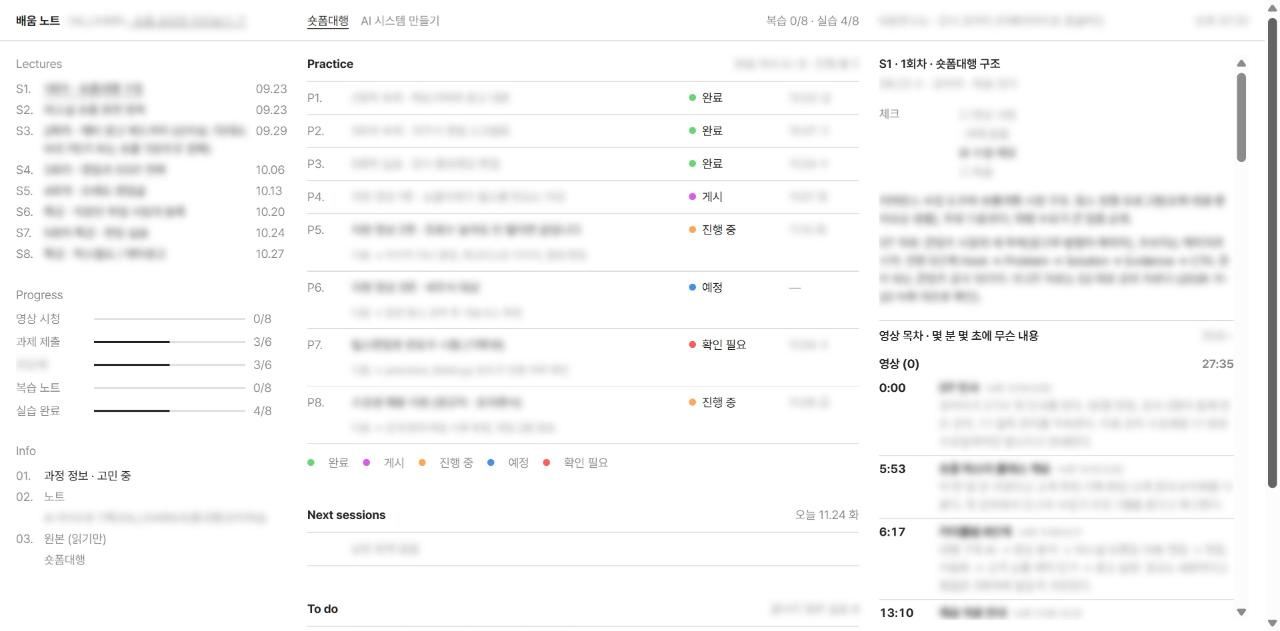
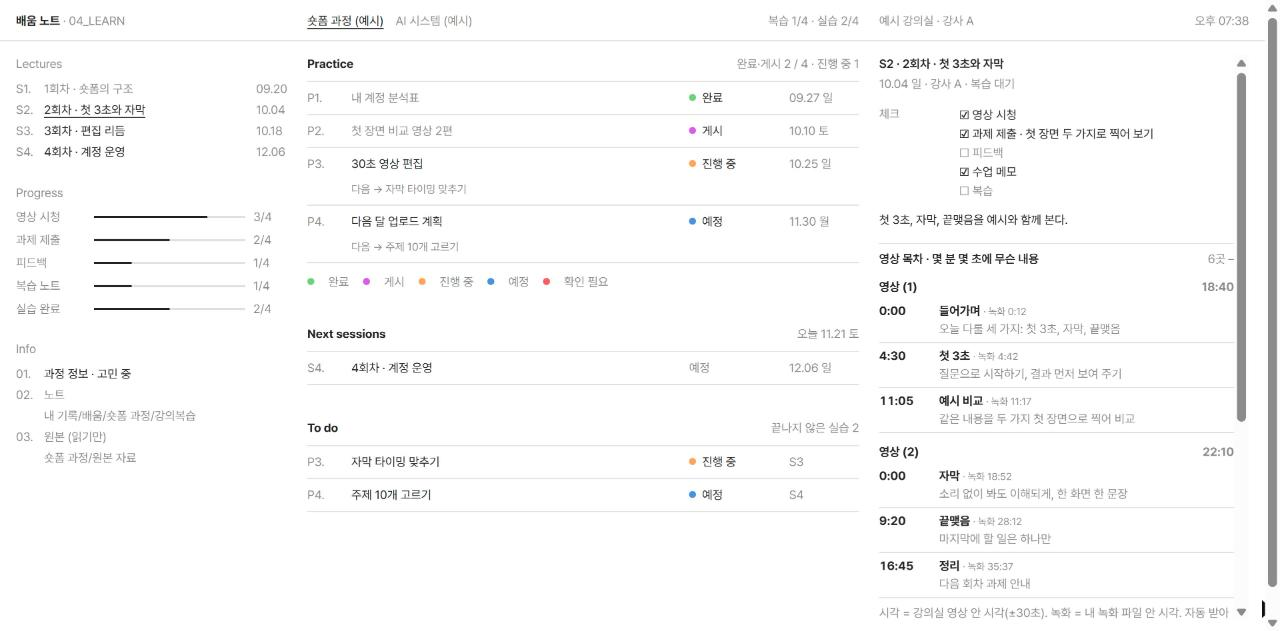
발표 페이지: 실제 화면 캡처에 번호를 달아 나눈 칸과 쓰는 법 설명
- 업무 상황판(글자만 예시로 바꿈)·배움 노트(예시 과정)·flyb 관리 화면·사이트 바탕화면 캡처
- 칸마다 번호 표시 + 설명, '이렇게 써요' 한 줄
- 흐림 처리 캡처와 사이트 INVENTORY 캡처는 뺌

diff --git a/ai-system.html b/ai-system.html
@@ -79,6 +79,22 @@
 .show.wide{grid-template-columns:1fr}
 .show .pair{display:grid;grid-template-columns:repeat(2,minmax(0,1fr));gap:12px}
 @media (max-width:820px){.show{grid-template-columns:1fr}.show .pair{grid-template-columns:1fr}}
+.show2{background:var(--paper);border:1px solid var(--line);border-radius:4px;padding:18px;margin-bottom:22px}
+.show2 .head2 .who{font-family:var(--sans);font-size:11.5px;color:var(--wine);letter-spacing:.04em;margin:0}
+.show2 .head2 h3{margin:4px 0 6px;font-family:var(--serif);font-weight:400;font-size:21px}
+.show2 .head2 p{margin:0 0 12px;font-size:14.5px;word-break:keep-all;max-width:70ch}
+.anno{position:relative;margin:0;border:1px solid var(--line);border-radius:3px;overflow:hidden;background:#fff}
+.anno img{width:100%;display:block}
+.anno .mk{position:absolute;border:2px solid var(--wine);border-radius:4px;background:rgba(140,74,85,.05);pointer-events:none}
+.anno .mk i{position:absolute;left:-2px;top:-2px;min-width:22px;height:22px;padding:0 5px;border-radius:4px 0 6px 0;background:var(--wine);color:#fff;font:600 13px/22px var(--sans);text-align:center;font-style:normal}
+.legend2{list-style:none;margin:14px 0 6px;padding:0;display:grid;grid-template-columns:repeat(2,minmax(0,1fr));gap:8px 20px}
+.legend2 li{display:flex;gap:10px;align-items:flex-start;font-size:14px;word-break:keep-all}
+.legend2 i{flex:none;min-width:22px;height:22px;border-radius:4px;background:var(--wine);color:#fff;font:600 13px/22px var(--sans);text-align:center;font-style:normal}
+.legend2 b{font-weight:600}
+.show2 .use{margin:10px 0 0;font-size:14px;border-top:1px dashed var(--line);padding-top:10px;word-break:keep-all}
+.show2 .use b{color:var(--wine);margin-right:6px}
+.trio{display:grid;grid-template-columns:1fr 1fr .55fr;gap:10px;align-items:start}
+@media (max-width:820px){.legend2{grid-template-columns:1fr}.trio{grid-template-columns:1fr}.anno.phone{max-width:320px}}
 </style>
 </head>
 <body>
@@ -142,56 +158,27 @@
 
   <section class="block" id="made">
     <h2>만든 도구</h2>
-    <h3 class="sub2">나만 보는 도구 <span>일과 개인 기록이 들어 있는 화면이라 캡처로 보여 드려요. 이름·메일·금액·강의 내용은 흐리게 가렸어요.</span></h3>
+    <h3 class="sub2">나만 보는 도구 <span>실제 화면을 캡처했어요. 업무 상황판은 회사 메일과 금액이 들어 있어 글자만 예시로 바꿨고, 배움 노트는 유료 강의 내용 대신 예시 과정을 넣은 같은 화면이에요.</span></h3>
 
-    <article class="show">
-      <figure><img src="img/ai/dashboard.jpg" alt="업무 상황판 화면. 왼쪽에 회신할 메일 목록, 가운데에 한 달 달력, 오른쪽에 오늘 꼭 볼 것과 지금 할 일 (내용은 가림)"></figure>
-      <div class="how-to">
-        <p class="who">일 · 매일 아침</p>
-        <h3>업무 상황판</h3>
-        <p>아침에 이 화면 하나만 열어요. 밤사이 온 메일을 AI가 읽고 정리한 브리핑이 여기에 들어와요.</p>
-        <ol>
-          <li><b>왼쪽</b> · 답장해야 할 메일을 급한 순서로, 그 아래 결재 대기 목록</li>
-          <li><b>가운데</b> · 한 달 달력. 날마다 브리핑, 일정, 할 일이 쌓여서 지난 일을 다시 찾기 쉬워요</li>
-          <li><b>오른쪽</b> · 오늘 꼭 볼 것과 지금 할 일. AI가 근거 메일과 함께 정리해 줘요</li>
-        </ol>
-        <p class="note">할 일을 AI에게 넘길 때는 여기서 바로 지시하고, 보내기·결재처럼 되돌리기 어려운 일은 내가 확인한 뒤에만 해요.</p>
-      </div>
+    <article class="show2">
+      <div class="head2"><p class="who">일 · 매일 아침</p><h3>업무 상황판</h3><p>아침에 이 화면 하나만 열어요. 밤사이 온 메일을 엘이 읽고 정리한 브리핑이 들어와요. 화면은 세 칸으로 나눴어요.</p></div>
+      <figure class="anno"><img src="img/ai/dashboard.jpg" alt="업무 상황판 전체 화면"><span class="mk" style="left:1%;top:8%;width:21%;height:74%"><i>1</i></span><span class="mk" style="left:1%;top:82%;width:21%;height:17%"><i>2</i></span><span class="mk" style="left:23.5%;top:8%;width:46%;height:92%"><i>3</i></span><span class="mk" style="left:69.8%;top:8%;width:27%;height:13%"><i>4</i></span><span class="mk" style="left:69.8%;top:23%;width:27%;height:77%"><i>5</i></span><span class="mk" style="left:60.5%;top:0.5%;width:9%;height:6%"><i>6</i></span></figure>
+      <ol class="legend2"><li><i>1</i><div><b>회신할 메일 · 급한 순</b> 밤사이 온 메일 중 내가 답해야 하는 것만, 급한 순서로. 처리하면 ✓를 눌러 지워요.</div></li><li><i>2</i><div><b>결재 대기</b> ERP에 올라온 지출 결재 중 내가 확인할 것. 오래된 건 빨간 글씨로 알려 줘요.</div></li><li><i>3</i><div><b>한 달 달력</b> 날마다 메일 브리핑, 일정, 할 일이 쌓여요. 지난 일을 찾을 때 날짜만 누르면 돼요.</div></li><li><i>4</i><div><b>엘의 제안</b> 메일을 읽고 엘이 정리한 제안이에요. 실제로 할지는 내가 정해요.</div></li><li><i>5</i><div><b>오늘 꼭 볼 것 · 지금 할 일 · 이번 주 할 일</b> 급한 순서로 묶어 보여 주고, 근거가 된 메일 원문으로 바로 갈 수 있어요.</div></li><li><i>6</i><div><b>월간 · 주간 · 목록</b> 같은 내용을 달력, 한 주, 목록으로 바꿔 봐요.</div></li></ol>
+      <p class="use"><b>이렇게 써요</b> 아침에 ①에서 답할 메일을 고르고 → ⑤에서 오늘 할 일을 정하고 → 엘에게 맡길 일은 여기서 바로 지시해요. 보내기·결재처럼 되돌리기 어려운 일은 내가 확인한 뒤에만 해요.</p>
     </article>
 
-    <article class="show">
-      <figure><img src="img/ai/baeum-note.jpg" alt="배움 노트 화면. 왼쪽에 강의 회차와 진행률, 가운데에 실습 상태, 오른쪽에 영상 몇 분 몇 초 목차 (강의 내용은 가림)"></figure>
-      <div class="how-to">
-        <p class="who">배움 · 복습할 때</p>
-        <h3>배움 노트</h3>
-        <p>듣고 있는 두 강의 과정을 한 화면에서 봐요. 강의 녹화를 받아쓰면 AI가 영상마다 시간 목차를 만들어 줘요.</p>
-        <ol>
-          <li><b>왼쪽</b> · 강의 회차와 진행률(영상 시청, 과제 제출, 실습 완료)</li>
-          <li><b>가운데</b> · 실습과 과제가 지금 어디까지 왔는지 (완료 · 게시 · 진행 중 · 확인 필요)</li>
-          <li><b>오른쪽</b> · 회차를 누르면 영상 몇 분 몇 초에 무슨 내용이 나오는지와 그 회차 자료</li>
-        </ol>
-        <p class="note">복습할 땐 영상을 처음부터 다시 보지 않고, 목차에서 필요한 시각만 골라 봐요. 같은 강의를 듣는 분들과는 목차만 따로 나눠요.</p>
-      </div>
+    <article class="show2">
+      <div class="head2"><p class="who">배움 · 복습할 때</p><h3>배움 노트</h3><p>듣고 있는 두 강의 과정을 한 화면에 모았어요. 왼쪽은 전체 흐름, 가운데는 내가 할 일, 오른쪽은 고른 회차의 자세한 내용이에요.</p></div>
+      <figure class="anno"><img src="img/ai/baeum-note.jpg" alt="배움 노트 전체 화면"><span class="mk" style="left:23.5%;top:0.5%;width:14%;height:6%"><i>1</i></span><span class="mk" style="left:0.5%;top:8%;width:23%;height:19%"><i>2</i></span><span class="mk" style="left:0.5%;top:28%;width:23%;height:23%"><i>3</i></span><span class="mk" style="left:23.5%;top:8%;width:44%;height:38%"><i>4</i></span><span class="mk" style="left:23.5%;top:50%;width:44%;height:32%"><i>5</i></span><span class="mk" style="left:68%;top:8%;width:30%;height:30%"><i>6</i></span><span class="mk" style="left:68%;top:40%;width:30%;height:59%"><i>7</i></span></figure>
+      <ol class="legend2"><li><i>1</i><div><b>과정 탭</b> 듣고 있는 두 과정(숏폼대행, AI 시스템 만들기)을 오가요.</div></li><li><i>2</i><div><b>Lectures · 회차</b> 회차를 누르면 오른쪽에 그 회차의 모든 것이 열려요.</div></li><li><i>3</i><div><b>Progress · 진행률</b> 영상 시청, 과제 제출, 피드백, 복습, 실습을 한눈에. 빈 막대가 다음에 할 일이에요.</div></li><li><i>4</i><div><b>Practice · 실습과 과제</b> 완료 · 게시 · 진행 중 · 예정 · 확인 필요로 상태를 표시하고, 다음에 할 일을 한 줄로 붙여 둬요.</div></li><li><i>5</i><div><b>Next sessions · To do</b> 다가오는 회차와 끝나지 않은 실습만 모아요.</div></li><li><i>6</i><div><b>회차 체크</b> 영상 시청, 과제, 수업 메모, 복습을 체크하고 그 회차의 핵심을 한 줄로.</div></li><li><i>7</i><div><b>영상 목차</b> 강의 녹화를 받아쓰면 엘이 영상마다 몇 분 몇 초에 무슨 내용인지 목차를 만들어요. 복습할 땐 필요한 시각만 골라 봐요.</div></li></ol>
+      <p class="use"><b>이렇게 써요</b> 강의를 녹화해 받아쓰면 → 엘이 ⑦ 영상 목차를 만들고 → 복습할 땐 ②에서 회차를 골라 필요한 시각만 봐요. 과제는 ④에서 상태를 바꿔 가며 끝까지 챙겨요.</p>
     </article>
 
-    <article class="show wide">
-      <div class="how-to">
-        <p class="who">기록 · 다녀오고 나서</p>
-        <h3>flyb 관리 화면 → 이 사이트</h3>
-        <p>행사, 와인, 사람, 공간을 핸드폰으로 넣으면, 공개해도 되는 것만 골라 이 사이트의 INVENTORY에 나타나요. 나중에 책으로 엮을 재료가 되도록 그때 고른 이유와 남은 기준까지 적어요.</p>
-        <ol>
-          <li><b>넣기</b> · 사진 여러 장, 날짜, 장소, 한 줄. 지도를 누르거나 구글 지도 좌표를 붙여 다녀온 곳을 찍어요</li>
-          <li><b>채우기</b> · AI가 내 일기와 자료에서 그날의 경험을 찾고, 행사·인물 정보는 출처와 함께 덧붙여요</li>
-          <li><b>확인하기</b> · 회사 정보 없음, 사람 허락, 사진 공개 가능 세 가지를 체크해야 '사이트에 보이기'가 켜져요. 사진 속 위치 정보는 저장할 때 지워요</li>
-          <li><b>보여 주기</b> · 사이트에서는 와인 리스트처럼 읽고, 세계지도의 점을 눌러 기록을 펼쳐요</li>
-        </ol>
-      </div>
-      <div class="pair">
-        <figure><img src="img/ai/flyb-admin-1.jpg" alt="flyb 관리 화면. 왼쪽 기록 목록, 오른쪽 기록 입력 칸과 세계지도 핀"><figcaption>관리 화면 · 기록 목록과 지도 핀</figcaption></figure>
-        <figure><img src="img/ai/flyb-admin-2.jpg" alt="flyb 관리 화면의 사진 여러 장과 공개 전 확인 체크"><figcaption>관리 화면 · 사진 여러 장과 공개 전 확인</figcaption></figure>
-        <figure><img src="img/ai/flyb-site-1.jpg" alt="공개 사이트의 INVENTORY. 세계지도와 와인 리스트 모양의 기록"><figcaption>사이트 · 세계지도와 와인 리스트</figcaption></figure>
-        <figure><img src="img/ai/flyb-site-2.jpg" alt="공개 사이트에서 기록을 펼친 모습. 큰 사진과 작은 사진들, 설명"><figcaption>사이트 · 기록을 펼친 모습</figcaption></figure>
-      </div>
+    <article class="show2">
+      <div class="head2"><p class="who">기록 · 다녀오고 나서</p><h3>flyb 관리 화면 → 사이트 바탕화면</h3><p>행사, 와인, 사람, 공간을 핸드폰으로 넣으면, 공개해도 되는 것만 골라 이 사이트에 나타나요. 나중에 책으로 엮을 재료가 되도록 그때 고른 이유와 남은 기준까지 적어요.</p></div>
+      <div class="trio"><figure class="anno"><img src="img/ai/flyb-admin-1.jpg" alt="flyb 관리 화면: 기록 목록과 입력 칸, 세계지도 핀"><span class="mk" style="left:0.5%;top:9%;width:25.5%;height:82%"><i>1</i></span><span class="mk" style="left:27.5%;top:9%;width:57%;height:35%"><i>2</i></span><span class="mk" style="left:38.5%;top:45%;width:46%;height:53%"><i>3</i></span></figure><figure class="anno"><img src="img/ai/flyb-admin-2.jpg" alt="flyb 관리 화면: 사진 여러 장과 공개 전 확인"><span class="mk" style="left:38.5%;top:2%;width:38%;height:77%"><i>4</i></span><span class="mk" style="left:38.5%;top:87%;width:46%;height:13%"><i>5</i></span></figure><figure class="anno phone"><img src="img/ai/home.jpg" alt="flyb 사이트 바탕화면: 시계·메모 위젯, 앱 8개, 아래 독"><span class="mk" style="left:6%;top:8%;width:89%;height:26%"><i>6</i></span><span class="mk" style="left:6%;top:36%;width:89%;height:33%"><i>7</i></span><span class="mk" style="left:6%;top:81%;width:89%;height:16%"><i>8</i></span></figure></div>
+      <ol class="legend2"><li><i>1</i><div><b>기록 목록</b> 번호(INV-001…), 종류, 날짜와 공개 여부. 누르면 오른쪽에서 고쳐요.</div></li><li><i>2</i><div><b>기본 칸</b> 종류(행사·와이너리·와인·공간·사람), 날짜, 제목, 장소. 핸드폰에서도 그대로 넣어요.</div></li><li><i>3</i><div><b>지도 핀</b> 지도를 누르거나 구글 지도 좌표를 붙여 다녀온 곳을 찍어요.</div></li><li><i>4</i><div><b>사진 여러 장</b> 한 번에 20장까지. ← → 로 순서를 바꾸고 첫 장이 대표예요. 위치 정보는 저장할 때 지워요.</div></li><li><i>5</i><div><b>공개 전 확인</b> 회사 정보 없음, 사람 허락, 사진 공개 가능 세 가지를 체크해야 '사이트에 보이기'가 켜져요.</div></li><li><i>6</i><div><b>바탕화면 위젯</b> 사이트 첫 화면은 핸드폰 바탕화면처럼. 시계와 한 줄 소개 메모.</div></li><li><i>7</i><div><b>앱 8개</b> 소개, INVENTORY(기록), IN PROGRESS, 지나온 일, 내 AI 시스템, 배움 노트, 영상 목차, 일주 캘린더. 누르면 창으로 열려요.</div></li><li><i>8</i><div><b>아래 독</b> 인스타그램 두 계정, MCO, 전체 보기.</div></li></ol>
+      <p class="use"><b>이렇게 써요</b> 행사장에서 사진과 한 줄을 넣고 → 엘이 내 일기와 자료에서 그날의 경험과 출처를 채우고 → ⑤ 세 가지를 확인하면 → 사이트의 INVENTORY 앱에 기록이 쌓여요.</p>
     </article>
 
     <h3 class="sub2">함께 쓰는 도구 <span>누구나 열어 볼 수 있어요.</span></h3>
